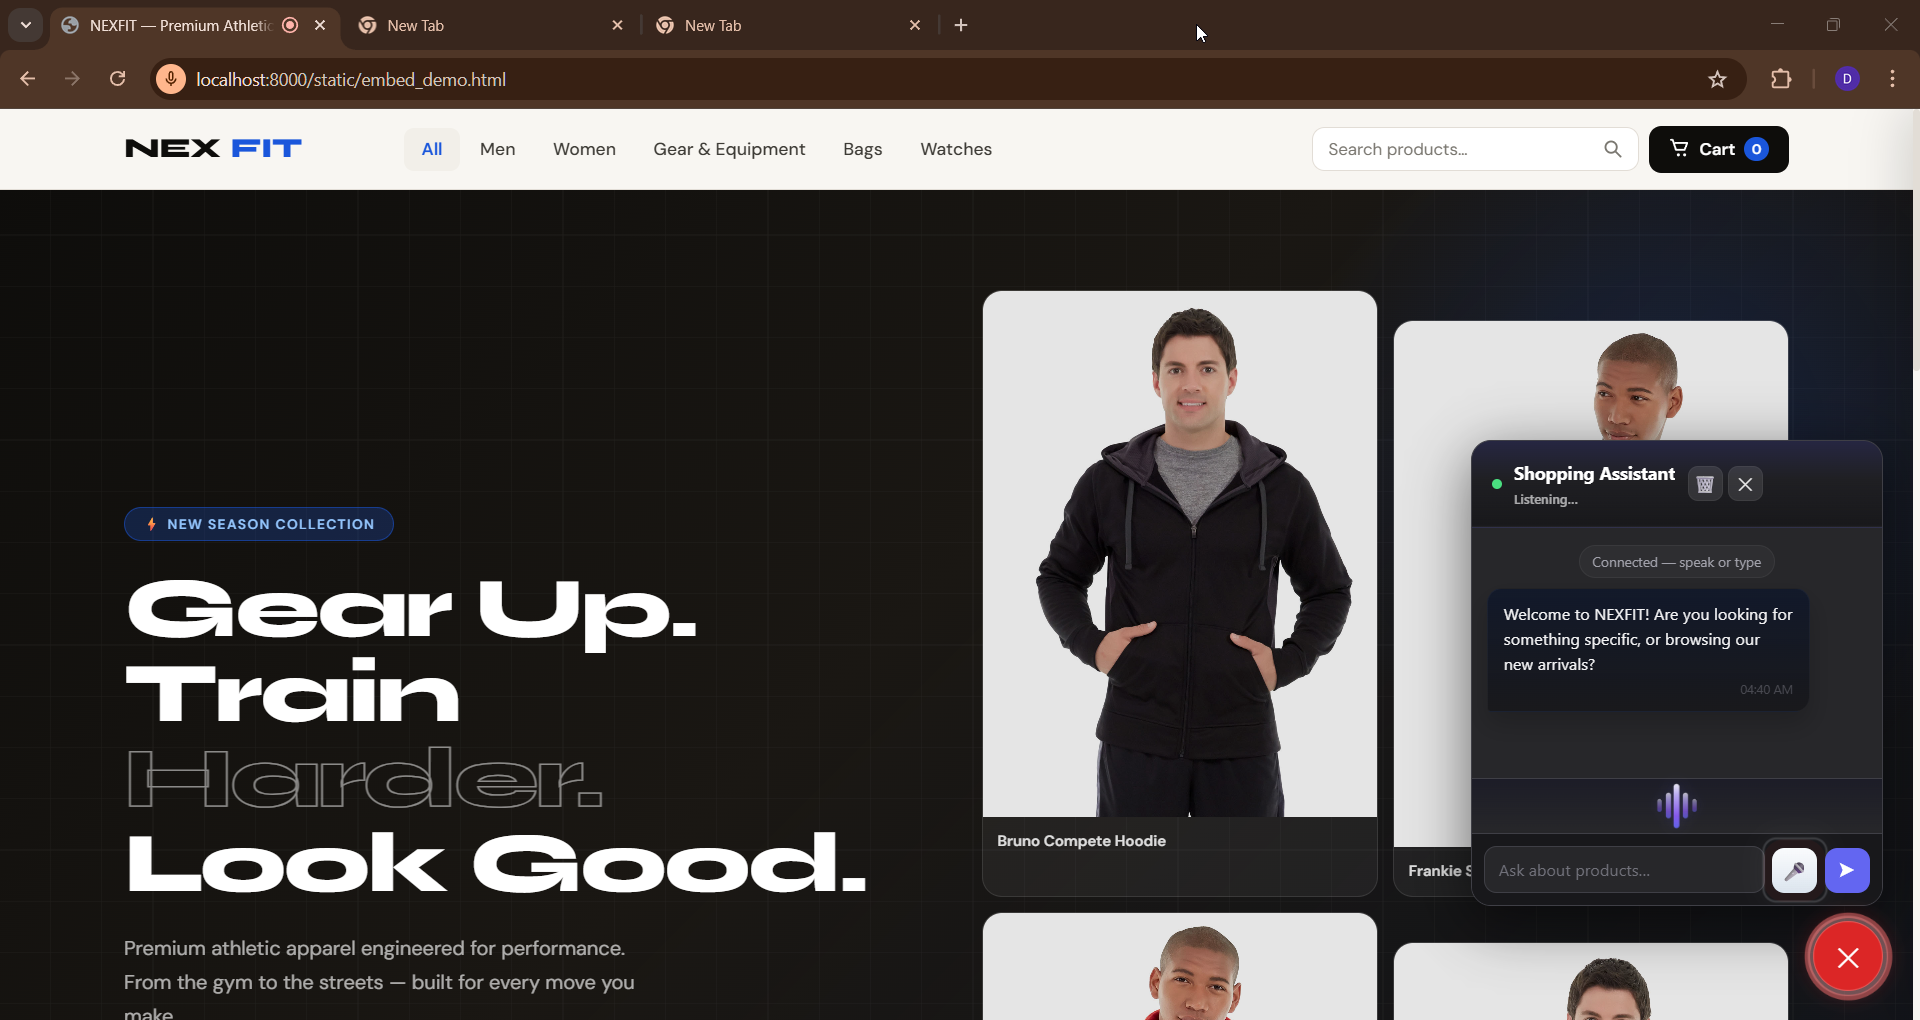
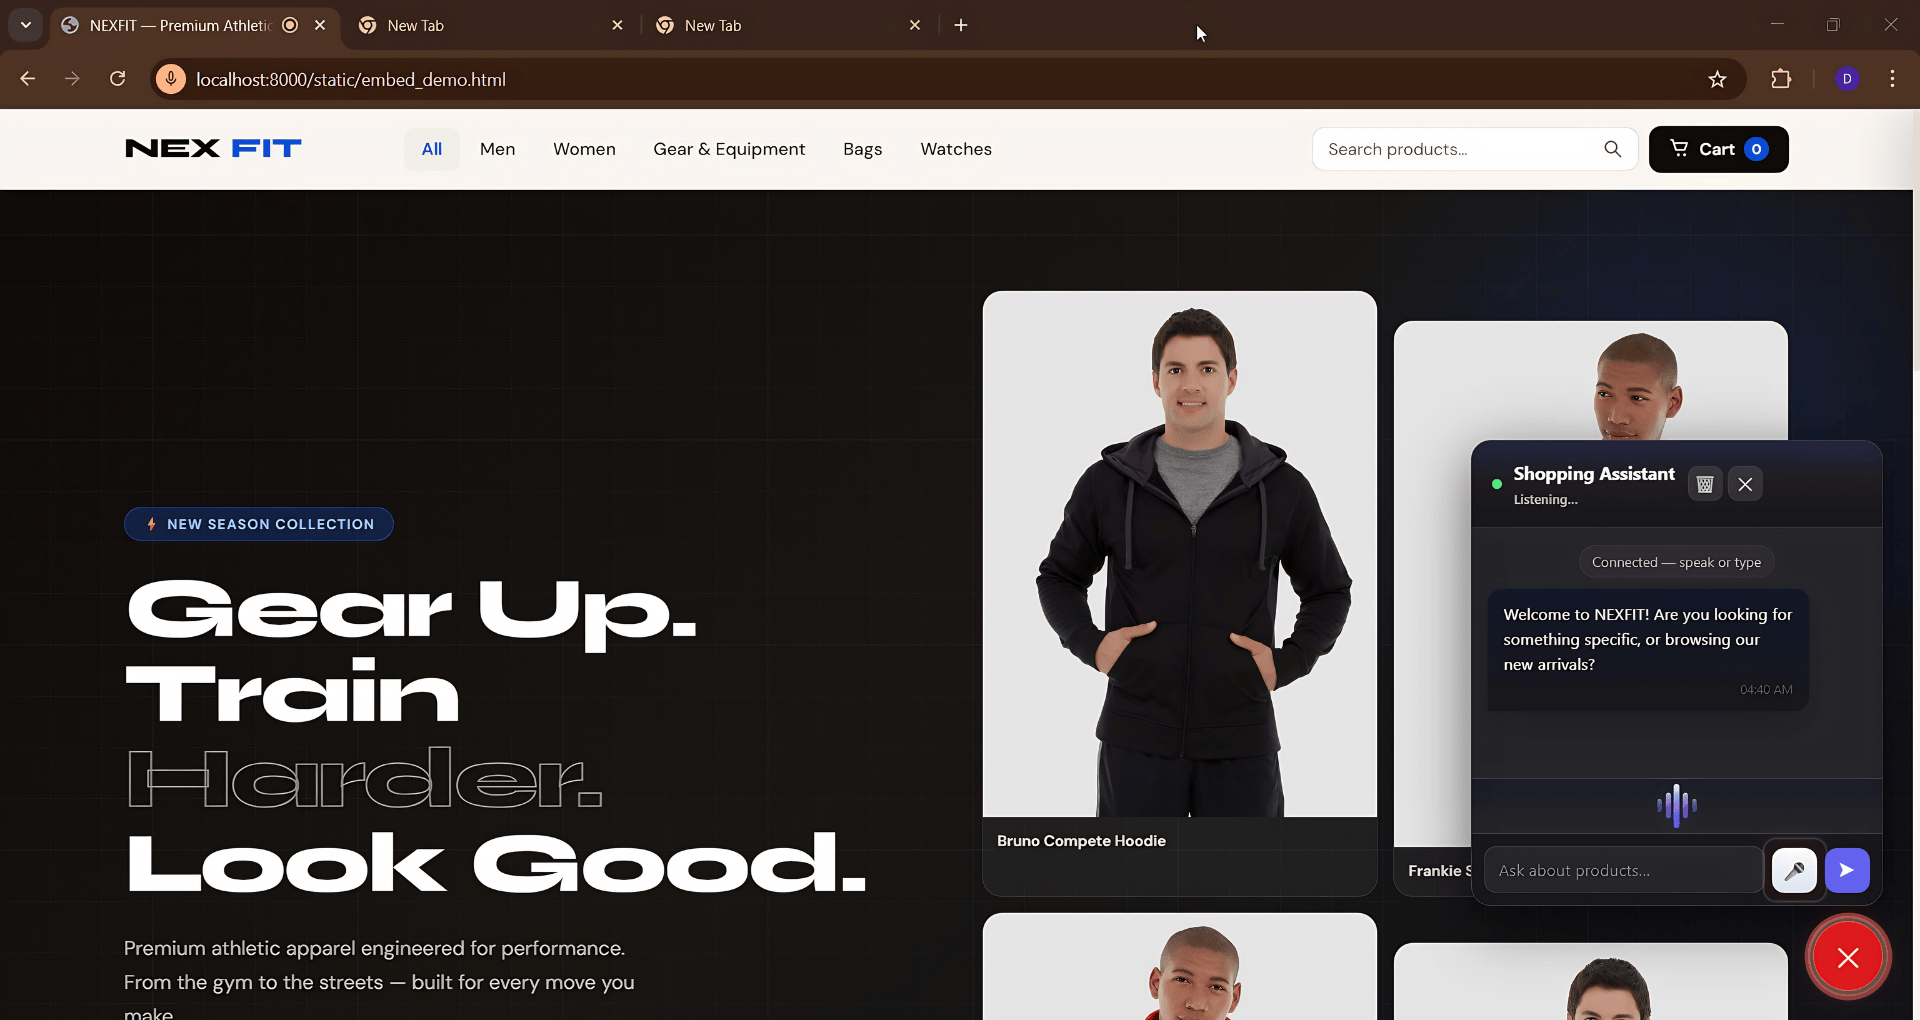
Update README demo preview assets
- add the animated demo GIF to the README preview section
- include the new demo GIF asset
- capture the current updated demo screenshots in the same documentation commit

diff --git a/README.md b/README.md
@@ -7,6 +7,12 @@ The project is structured as a full voice-commerce system: a widget captures use
 ## Preview
 
 <p align="center">
+  <img src="docs/demo/Demo%20Gif%201.gif" alt="Voice Commerce Agent live demo showing the storefront and voice assistant flow" width="100%" />
+</p>
+
+<p align="center"><em>Live demo: voice-guided shopping flow in the storefront widget.</em></p>
+
+<p align="center">
   <img src="docs/demo/Screenshot%201.png" alt="Voice Commerce Agent storefront with the voice widget open" width="100%" />
 </p>
 
